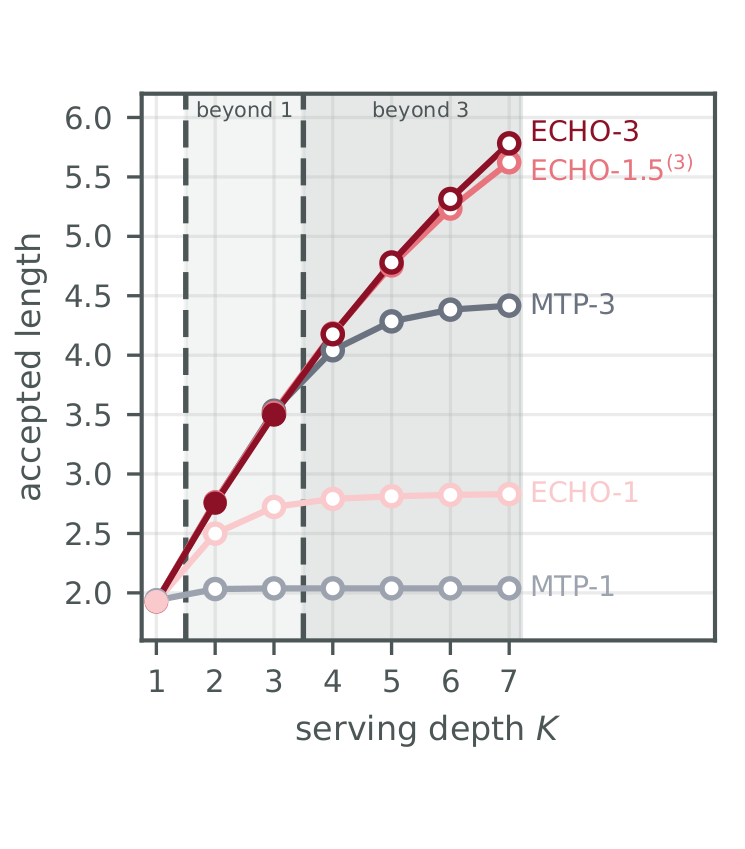
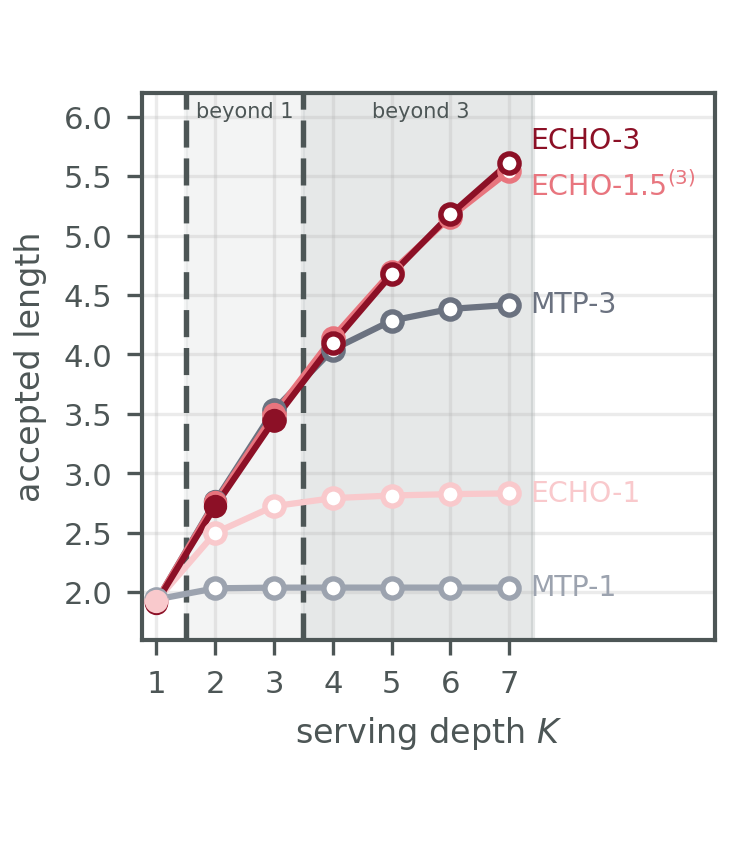
Figure 1b: plot the measured K=7 for ECHO-1.5 and ECHO-3
The ECHO-1.5 and ECHO-3 curves took their K=7 point from a K=6 sweep with
p7 extrapolated geometrically, although both checkpoints were also swept to
K=8. Their rows now come from the K=8 sweep, so every plotted depth is
measured: tau_7 is 5.54 and 5.61 rather than the extrapolated 5.62 and 5.78.
MTP-3, ECHO-1 and MTP-1 have no K=8 sweep and keep the extrapolated K=7
point, which the figure README now states.

plot_fig1b.py drew all text black, so it no longer reproduced the shipped
figure; it again draws the curve names in their curve colours and the text in
AXIS grey, matching Figure 1a beside it in the teaser.

diff --git a/figure_plot/scripts/plot_fig1b.py b/figure_plot/scripts/plot_fig1b.py
@@ -23,10 +23,10 @@ MCOL = {"MTP-1": P.MTP_1, "MTP-3": P.MTP_3, "ECHO-1": P.ECHO_1,
 CSV_LABEL = {"MTP-1": "MTP-1", "MTP-3": "MTP-3", "ECHO-1": "ECHO-1",
              "ECHO-1.5$^{(3)}$": "ECHO-1.5", "ECHO-3": "ECHO-3"}
 ORDER = ["MTP-1", "MTP-3", "ECHO-1", "ECHO-1.5$^{(3)}$", "ECHO-3"]
-# ECHO-1.5 (5.62) and ECHO-3 (5.78) end within 0.16 of each other, so their names
+# ECHO-1.5 (5.54) and ECHO-3 (5.61) end within 0.07 of each other, so their names
 # are pushed apart vertically; the rest sit on their own endpoint.
 LABEL_Y = {"MTP-1": 2.04, "MTP-3": 4.42, "ECHO-1": 2.83,
-           "ECHO-1.5$^{(3)}$": 5.54, "ECHO-3": 5.87}
+           "ECHO-1.5$^{(3)}$": 5.42, "ECHO-3": 5.80}
 
 rows = {}
 with (INPUT_DIR / "intro_al7_points.csv").open() as f:
@@ -35,10 +35,9 @@ with (INPUT_DIR / "intro_al7_points.csv").open() as f:
                             [float(r[f"tau_K{k}"]) for k in range(1, 8)])
 
 plt.rcParams.update({"font.size": 7.4, "axes.linewidth": 1.0,
-                     "axes.edgecolor": P.AXIS, "text.color": "black",
-                     "axes.labelcolor": "black", "xtick.color": P.AXIS,
-                     "ytick.color": P.AXIS, "xtick.labelcolor": "black",
-                     "ytick.labelcolor": "black"})        # all text black; axes stay AXIS
+                     "axes.edgecolor": P.AXIS, "text.color": P.AXIS,
+                     "axes.labelcolor": P.AXIS, "xtick.color": P.AXIS,
+                     "ytick.color": P.AXIS})   # text in AXIS grey, as Figure 1a beside it
 # Canvas chosen so that, at \includegraphics[width=2.22in], this panel's axes
 # rectangle lands at the same page height as teaser (a)'s: same drawn height and the
 # same offset below the subfigure box top. Solved from the two measured files;
@@ -57,7 +56,7 @@ ax.axvspan(3.5, 7.4, color=P.ZONE, alpha=.11, zorder=0)
 for td, xc, ha in ((1, 2.5, "center"), (3, 5.5, "center")):
     ax.axvline(td + .5, color=P.AXIS, lw=1.3, ls=(0, (5, 2)), zorder=2)
     ax.text(xc, 6.05, f"beyond {td}", ha=ha, va="center",
-            fontsize=5.0, color="black")
+            fontsize=5.0, color=P.AXIS)
 
 x = list(range(1, 8))
 for lab in ORDER:
@@ -74,7 +73,7 @@ for lab in ORDER:
     ax.plot([x[td - 1]], [al[td - 1]], "o", ls="none", ms=4.6, mfc=col, mec=col,
             zorder=5)
     ax.annotate(lab, (7.35, LABEL_Y[lab]), ha="left", va="center",
-                fontsize=6.8, color="black", zorder=5)
+                fontsize=6.8, color=col, zorder=5)
 
 ax.set_xticks(x)
 ax.set_xlim(.75, 10.5)

diff --git a/figure_plot/README.md b/figure_plot/README.md
@@ -53,6 +53,10 @@ only as figures:
 | `intro_al7_points.csv` | Figure 1b |
 | `serving_metrics.csv` | Figure 3b |
 
+In `intro_al7_points.csv`, the ECHO-1.5 and ECHO-3 rows come from sweeps that draft to K=8, so every
+depth plotted is measured. The other three come from sweeps to K=6; there `den7 = 0` marks `p7` as
+extrapolated, continuing the geometric decay of the last two measured rates, `p7 = p6 * min(p6 / p5, 1)`.
+
 `serving_metrics.csv` is a compact export of target entropy, accepted length, and corrected
 decode-speedup values formerly reconstructed at plotting time from the raw serving archive.
 The derivation scripts and raw measurements are retained under `archive/serving/`, while the
